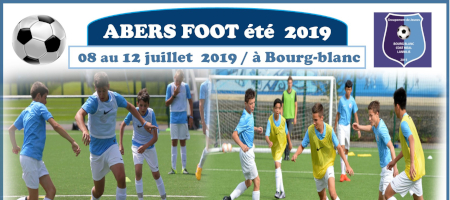
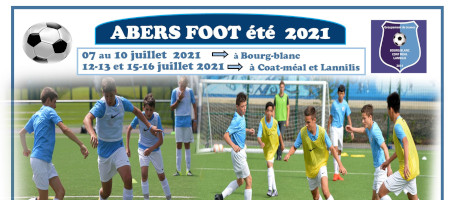
Update AbersFoot 2021

diff --git a/src/environments/environment.prod.ts b/src/environments/environment.prod.ts
@@ -23,5 +23,5 @@ export const environment = {
   urlPrintRegistration: 'https://us-central1-footcamps-production.cloudfunctions.net/httpPrintRegistration',
   urlPrintRegistrations: 'https://us-central1-footcamps-production.cloudfunctions.net/httpPrintRegistrations',
   urlPrintEquipment: 'https://us-central1-footcamps-production.cloudfunctions.net/httpPrintEquipment',
-  urlPaymentIntent: 'https://us-central1-footcamps-development.cloudfunctions.net/httpPaymentIntent'
+  urlPaymentIntent: 'https://us-central1-footcamps-production.cloudfunctions.net/httpPaymentIntent'
 };
